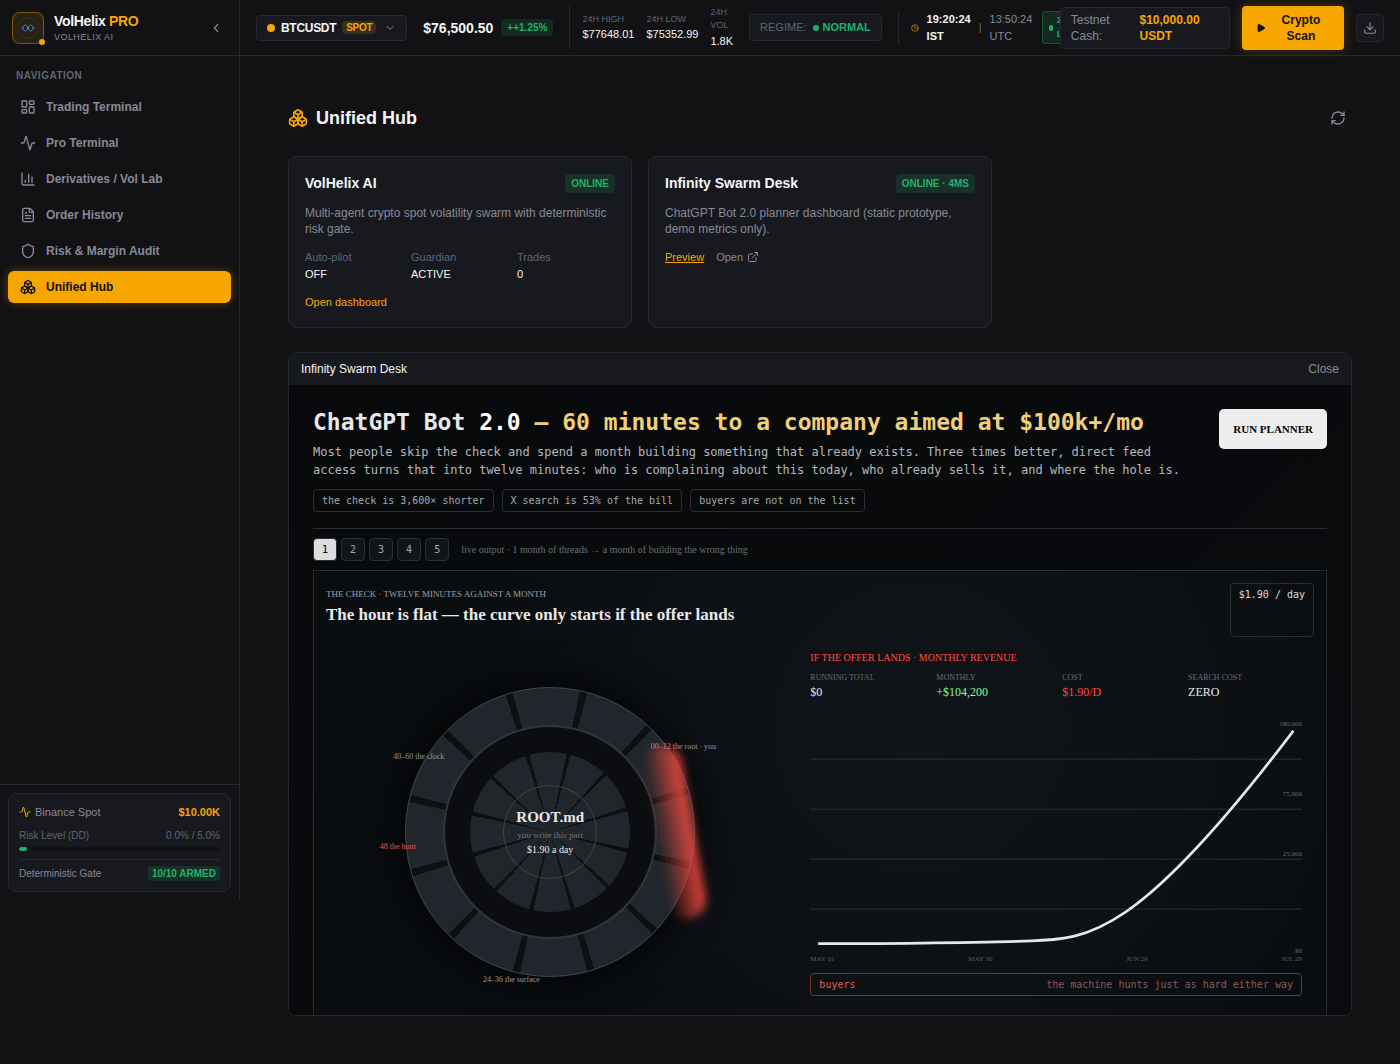
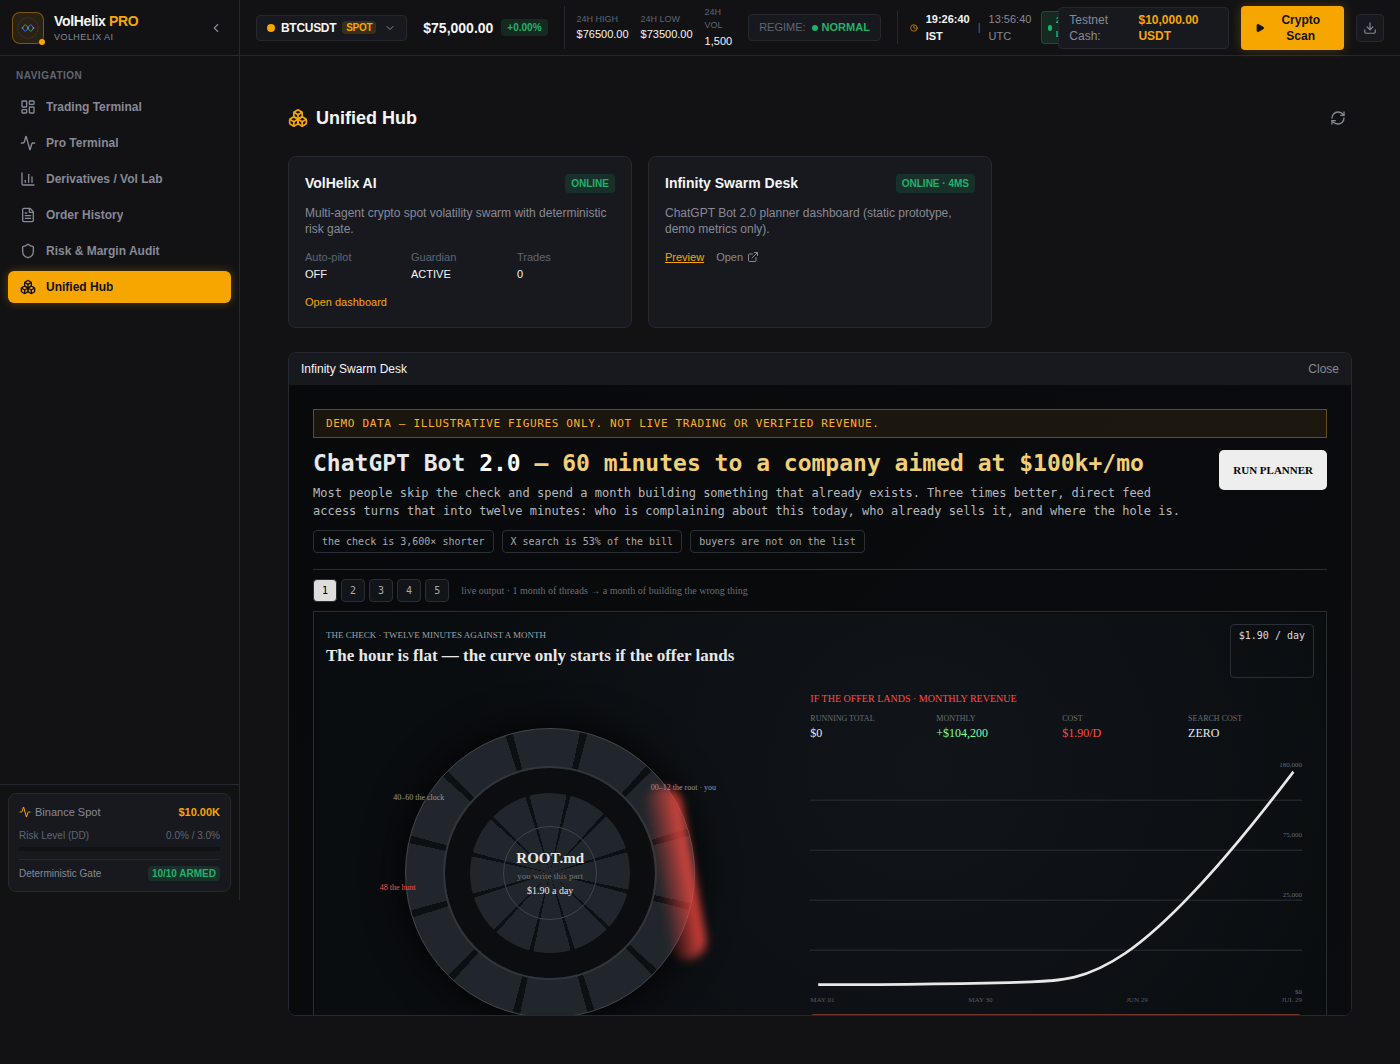
Fix inert daily-drawdown gate, offline startup/test failures, hardcoded sidebar risk; add run_hub.sh
Claude-Session: https://claude.ai/code/session_016634JsBTZicmBndJ3FN8qD

diff --git a/frontend/src/components/Sidebar.tsx b/frontend/src/components/Sidebar.tsx
@@ -27,6 +27,7 @@ export function Sidebar({ collapsed = false, onToggle }: SidebarProps) {
   const [internalCollapsed, setInternalCollapsed] = useState(collapsed);
   const isCollapsed = onToggle !== undefined ? collapsed : internalCollapsed;
   const [utaBalance, setUtaBalance] = useState<string>("$10.00K");
+  const [risk, setRisk] = useState<{ dd: number; limit: number } | null>(null);
 
   useEffect(() => {
     let isMounted = true;
@@ -37,8 +38,19 @@ export function Sidebar({ collapsed = false, onToggle }: SidebarProps) {
         setUtaBalance(`$${(val / 1000).toFixed(2)}K`);
       })
       .catch(() => {});
+    const loadRisk = () =>
+      fetch(`${process.env.NEXT_PUBLIC_API_URL || ""}/api/hub/overview`)
+        .then((r) => (r.ok ? r.json() : null))
+        .then((d) => {
+          const r = d?.projects?.find((p: { id: string }) => p.id === "volhelix")?.risk;
+          if (isMounted && r) setRisk({ dd: r.daily_drawdown_pct, limit: r.max_daily_drawdown_pct });
+        })
+        .catch(() => {});
+    loadRisk();
+    const timer = setInterval(loadRisk, 15000);
     return () => {
       isMounted = false;
+      clearInterval(timer);
     };
   }, []);
 
@@ -157,10 +169,13 @@ export function Sidebar({ collapsed = false, onToggle }: SidebarProps) {
             <div className="space-y-1">
               <div className="flex justify-between text-[10px] text-[#5e6673]">
                 <span>Risk Level (DD)</span>
-                <span>0.0% / 5.0%</span>
+                <span>{risk ? `${risk.dd.toFixed(1)}% / ${risk.limit.toFixed(1)}%` : "-- / --"}</span>
               </div>
               <div className="w-full h-1 bg-[#121214] rounded-full overflow-hidden">
-                <div className="h-full bg-[#20b26c] rounded-full w-[4%]" />
+                <div
+                  className={`h-full rounded-full ${risk && risk.dd >= risk.limit * 0.66 ? "bg-[#e5484d]" : "bg-[#20b26c]"}`}
+                  style={{ width: `${risk ? Math.min(100, (risk.dd / risk.limit) * 100) : 0}%` }}
+                />
               </div>
             </div>
 

diff --git a/frontend/src/components/flow/WorkspaceGrid.tsx b/frontend/src/components/flow/WorkspaceGrid.tsx
@@ -2,7 +2,7 @@
 
 import React, { useState } from "react";
 import dynamic from "next/dynamic";
-import { Panel, Group as PanelGroup, Separator as PanelResizeHandle } from "react-resizable-panels";
+import { type Layout, Panel, Group as PanelGroup, Separator as PanelResizeHandle } from "react-resizable-panels";
 import { FlowMetricsStrip } from "./FlowMetricsStrip";
 
 const FootprintChart = dynamic(() => import("./FootprintChart").then(mod => mod.FootprintChart), { ssr: false });
@@ -18,7 +18,7 @@ const getLayout = (id: string) => {
   return val ? JSON.parse(val) : undefined;
 };
 
-const saveLayout = (id: string, layout: any) => {
+const saveLayout = (id: string, layout: Layout) => {
   if (typeof window !== "undefined") {
     localStorage.setItem(id, JSON.stringify(layout));
   }
@@ -44,7 +44,7 @@ export function WorkspaceGrid({ symbol }: WorkspaceGridProps) {
         if (saved && ["ORDER_FLOW", "LIQUIDITY", "ANALYSIS"].includes(saved)) {
           return saved as WorkspacePreset;
         }
-      } catch (e) {
+      } catch {
         // ignore
       }
     }
@@ -55,7 +55,7 @@ export function WorkspaceGrid({ symbol }: WorkspaceGridProps) {
     setPreset(newPreset);
     try {
       localStorage.setItem("volhelix.workspace.v1.preset", newPreset);
-    } catch (e) {
+    } catch {
       // ignore
     }
   };

diff --git a/backend/store/portfolio_store.py b/backend/store/portfolio_store.py
@@ -1,5 +1,5 @@
 from typing import List, Dict
-from datetime import datetime
+from datetime import datetime, timezone
 from backend.models.portfolio import PortfolioSnapshot
 from backend.models.market import Regime, CryptoAssetBalance
 from backend.models.trade import TradeRecord
@@ -27,7 +27,20 @@ class PortfolioStore:
             exposure_by_symbol={}
         )
         self.snapshot_history: List[PortfolioSnapshot] = []
-        
+        # Daily P&L baseline: first equity observed each UTC day (resets at rollover).
+        # In-memory only, so a restart re-baselines to the equity at restart.
+        self._day_key: str = datetime.now(timezone.utc).date().isoformat()
+        self._day_start_equity: float = self.initial_capital
+
+    def _daily_pnl(self, equity: float) -> tuple:
+        today = datetime.now(timezone.utc).date().isoformat()
+        if today != self._day_key:
+            self._day_key = today
+            self._day_start_equity = equity
+        pnl = round(equity - self._day_start_equity, 2)
+        pct = round(pnl / self._day_start_equity * 100, 2) if self._day_start_equity > 0 else 0.0
+        return pnl, pct
+
     def update_from_exchange(self, account_data: dict, positions_data: List[dict], current_regime: Regime):
         """Sync the portfolio state from Binance."""
         equity = float(account_data.get('equity', self.initial_capital))
@@ -48,13 +61,14 @@ class PortfolioStore:
                 )
 
         exposures = self._calculate_exposures(positions_data)
+        daily_pnl, daily_pnl_pct = self._daily_pnl(equity)
 
         self.snapshot = PortfolioSnapshot(
             timestamp=datetime.now().isoformat(),
             equity=equity,
             buying_power=buying_power,
-            daily_pnl=0.0,
-            daily_pnl_pct=0.0,
+            daily_pnl=daily_pnl,
+            daily_pnl_pct=daily_pnl_pct,
             total_pnl=total_pnl,
             total_pnl_pct=total_pnl_pct,
             open_positions=len(positions_data),

diff --git a/backend/tests/test_daily_drawdown.py b/backend/tests/test_daily_drawdown.py
@@ -1,0 +1,23 @@
+from backend.models.market import Regime
+from backend.store.portfolio_store import PortfolioStore
+
+
+def _acct(equity):
+    return {"equity": equity, "buying_power": equity, "balances": {}}
+
+
+def test_daily_pnl_tracks_equity_change_from_day_start():
+    store = PortfolioStore()
+    store.update_from_exchange(_acct(10000.0), [], Regime.NORMAL)
+    store.update_from_exchange(_acct(9650.0), [], Regime.NORMAL)
+    snap = store.get_snapshot()
+    assert snap.daily_pnl == -350.0
+    assert snap.daily_pnl_pct == -3.5
+
+
+def test_daily_pnl_resets_on_new_utc_day():
+    store = PortfolioStore()
+    store.update_from_exchange(_acct(9000.0), [], Regime.NORMAL)
+    store._day_key = "1999-01-01"
+    store.update_from_exchange(_acct(9100.0), [], Regime.NORMAL)
+    assert store.get_snapshot().daily_pnl == 0.0

diff --git a/backend/api/hub_routes.py b/backend/api/hub_routes.py
@@ -13,6 +13,7 @@ from typing import Any, Dict, List
 import httpx
 from fastapi import APIRouter
 
+from backend.config import settings
 from backend.engine.auto_trader import auto_trader
 from backend.store.portfolio_store import portfolio_store
 
@@ -59,6 +60,11 @@ def _volhelix_card() -> Dict[str, Any]:
         card["portfolio"] = portfolio_store.get_snapshot().model_dump()
     except Exception:
         card["portfolio"] = None
+    snap = card["portfolio"] or {}
+    card["risk"] = {
+        "max_daily_drawdown_pct": settings.MAX_DAILY_DRAWDOWN * 100,
+        "daily_drawdown_pct": max(0.0, -float(snap.get("daily_pnl_pct", 0.0) or 0.0)),  # percent, same unit as above
+    }
     try:
         card["auto_trader"] = auto_trader.status()
     except Exception:

diff --git a/backend/mcp/client.py b/backend/mcp/client.py
@@ -43,7 +43,8 @@ class BinanceClient:
 
     def __init__(self):
         # Production market client (real market data)
-        self.market_client = BinanceSDKClient("", "")
+        # ping=False: constructing the SDK client must not hit the network (offline/blocked hosts)
+        self.market_client = BinanceSDKClient("", "", ping=False)
 
         # Testnet paper trading client
         if not settings.BINANCE_API_KEY or not settings.BINANCE_API_SECRET:
@@ -52,7 +53,8 @@ class BinanceClient:
         self.trading_client = BinanceSDKClient(
             settings.BINANCE_API_KEY,
             settings.BINANCE_API_SECRET,
-            testnet=True
+            testnet=True,
+            ping=False,
         )
         self._sync_time()
 

diff --git a/backend/main.py b/backend/main.py
@@ -27,13 +27,18 @@ async def lifespan(app: FastAPI):
     auto_trader.ensure_guardian_running()
     print("Position Guardian 24/7 TP/SL Engine Active...")
     
-    try:
-        await hub.start()
-    except Exception as e:
-        print(f"Failed to start MarketDataHub: {e}")
-        
+    async def _start_hub():
+        try:
+            await hub.start()
+        except Exception as e:
+            print(f"Failed to start MarketDataHub: {e}")
+
+    # Run in the background so unreachable market-data hosts cannot block API startup.
+    hub_task = asyncio.create_task(_start_hub())
+
     yield
-    
+
+    hub_task.cancel()
     try:
         await hub.stop()
     except Exception as e:

diff --git a/backend/tests/test_risk_gate.py b/backend/tests/test_risk_gate.py
@@ -54,6 +54,12 @@ def test_risk_gate_rejects_drawdown_circuit_breaker(base_portfolio, sample_crypt
     assert result.approved is False
     assert result.checks["drawdown_circuit_breaker"].passed is False
 
+def test_risk_gate_large_daily_gain_does_not_trip_drawdown_breaker(base_portfolio, sample_crypto_proposal):
+    gate = CryptoRiskGate()
+    base_portfolio.daily_pnl = 3500.0
+    result = gate.evaluate(sample_crypto_proposal, base_portfolio)
+    assert result.checks["drawdown_circuit_breaker"].passed is True
+
 def test_risk_gate_rejects_too_many_open_positions(base_portfolio, sample_crypto_proposal):
     gate = CryptoRiskGate()
     base_portfolio.open_positions = 5  # Limit is 5

diff --git a/backend/risk/risk_gate.py b/backend/risk/risk_gate.py
@@ -107,7 +107,8 @@ class CryptoRiskGate:
         )
 
         # 4. Daily Drawdown Circuit Breaker
-        daily_dd = abs(portfolio.daily_pnl) / nav if nav > 0 else 0.0
+        # Only losses count toward the drawdown breaker; a large daily gain must not halt trading.
+        daily_dd = max(0.0, -portfolio.daily_pnl) / nav if nav > 0 else 0.0
         dd_passed = daily_dd < self.MAX_DAILY_DRAWDOWN
         checks["drawdown_circuit_breaker"] = CheckResult(
             passed=dd_passed,

diff --git a/backend/tests/test_hub_routes.py b/backend/tests/test_hub_routes.py
@@ -20,3 +20,10 @@ def test_overview_marks_unreachable_sibling_offline():
     assert by_id["volhelix"]["status"] == "online"
     assert by_id["x"]["status"] == "offline"
     assert data["summary"] == {"total": 2, "online": 1}
+
+
+def test_overview_includes_risk_limits():
+    data = client.get("/api/hub/overview").json()
+    risk = data["projects"][0]["risk"]
+    assert risk["max_daily_drawdown_pct"] > 0
+    assert risk["daily_drawdown_pct"] >= 0

diff --git a/backend/risk/circuit_breaker.py b/backend/risk/circuit_breaker.py
@@ -22,6 +22,8 @@ class CircuitBreaker:
         if daily_pnl >= 0:
             return False
             
+        if nav <= 0:
+            return False
         drawdown_pct = abs(daily_pnl) / nav
         if drawdown_pct >= self.max_drawdown:
             self.halt_trading(f"Daily drawdown {drawdown_pct*100:.2f}% exceeded limit {self.max_drawdown*100:.2f}%")
